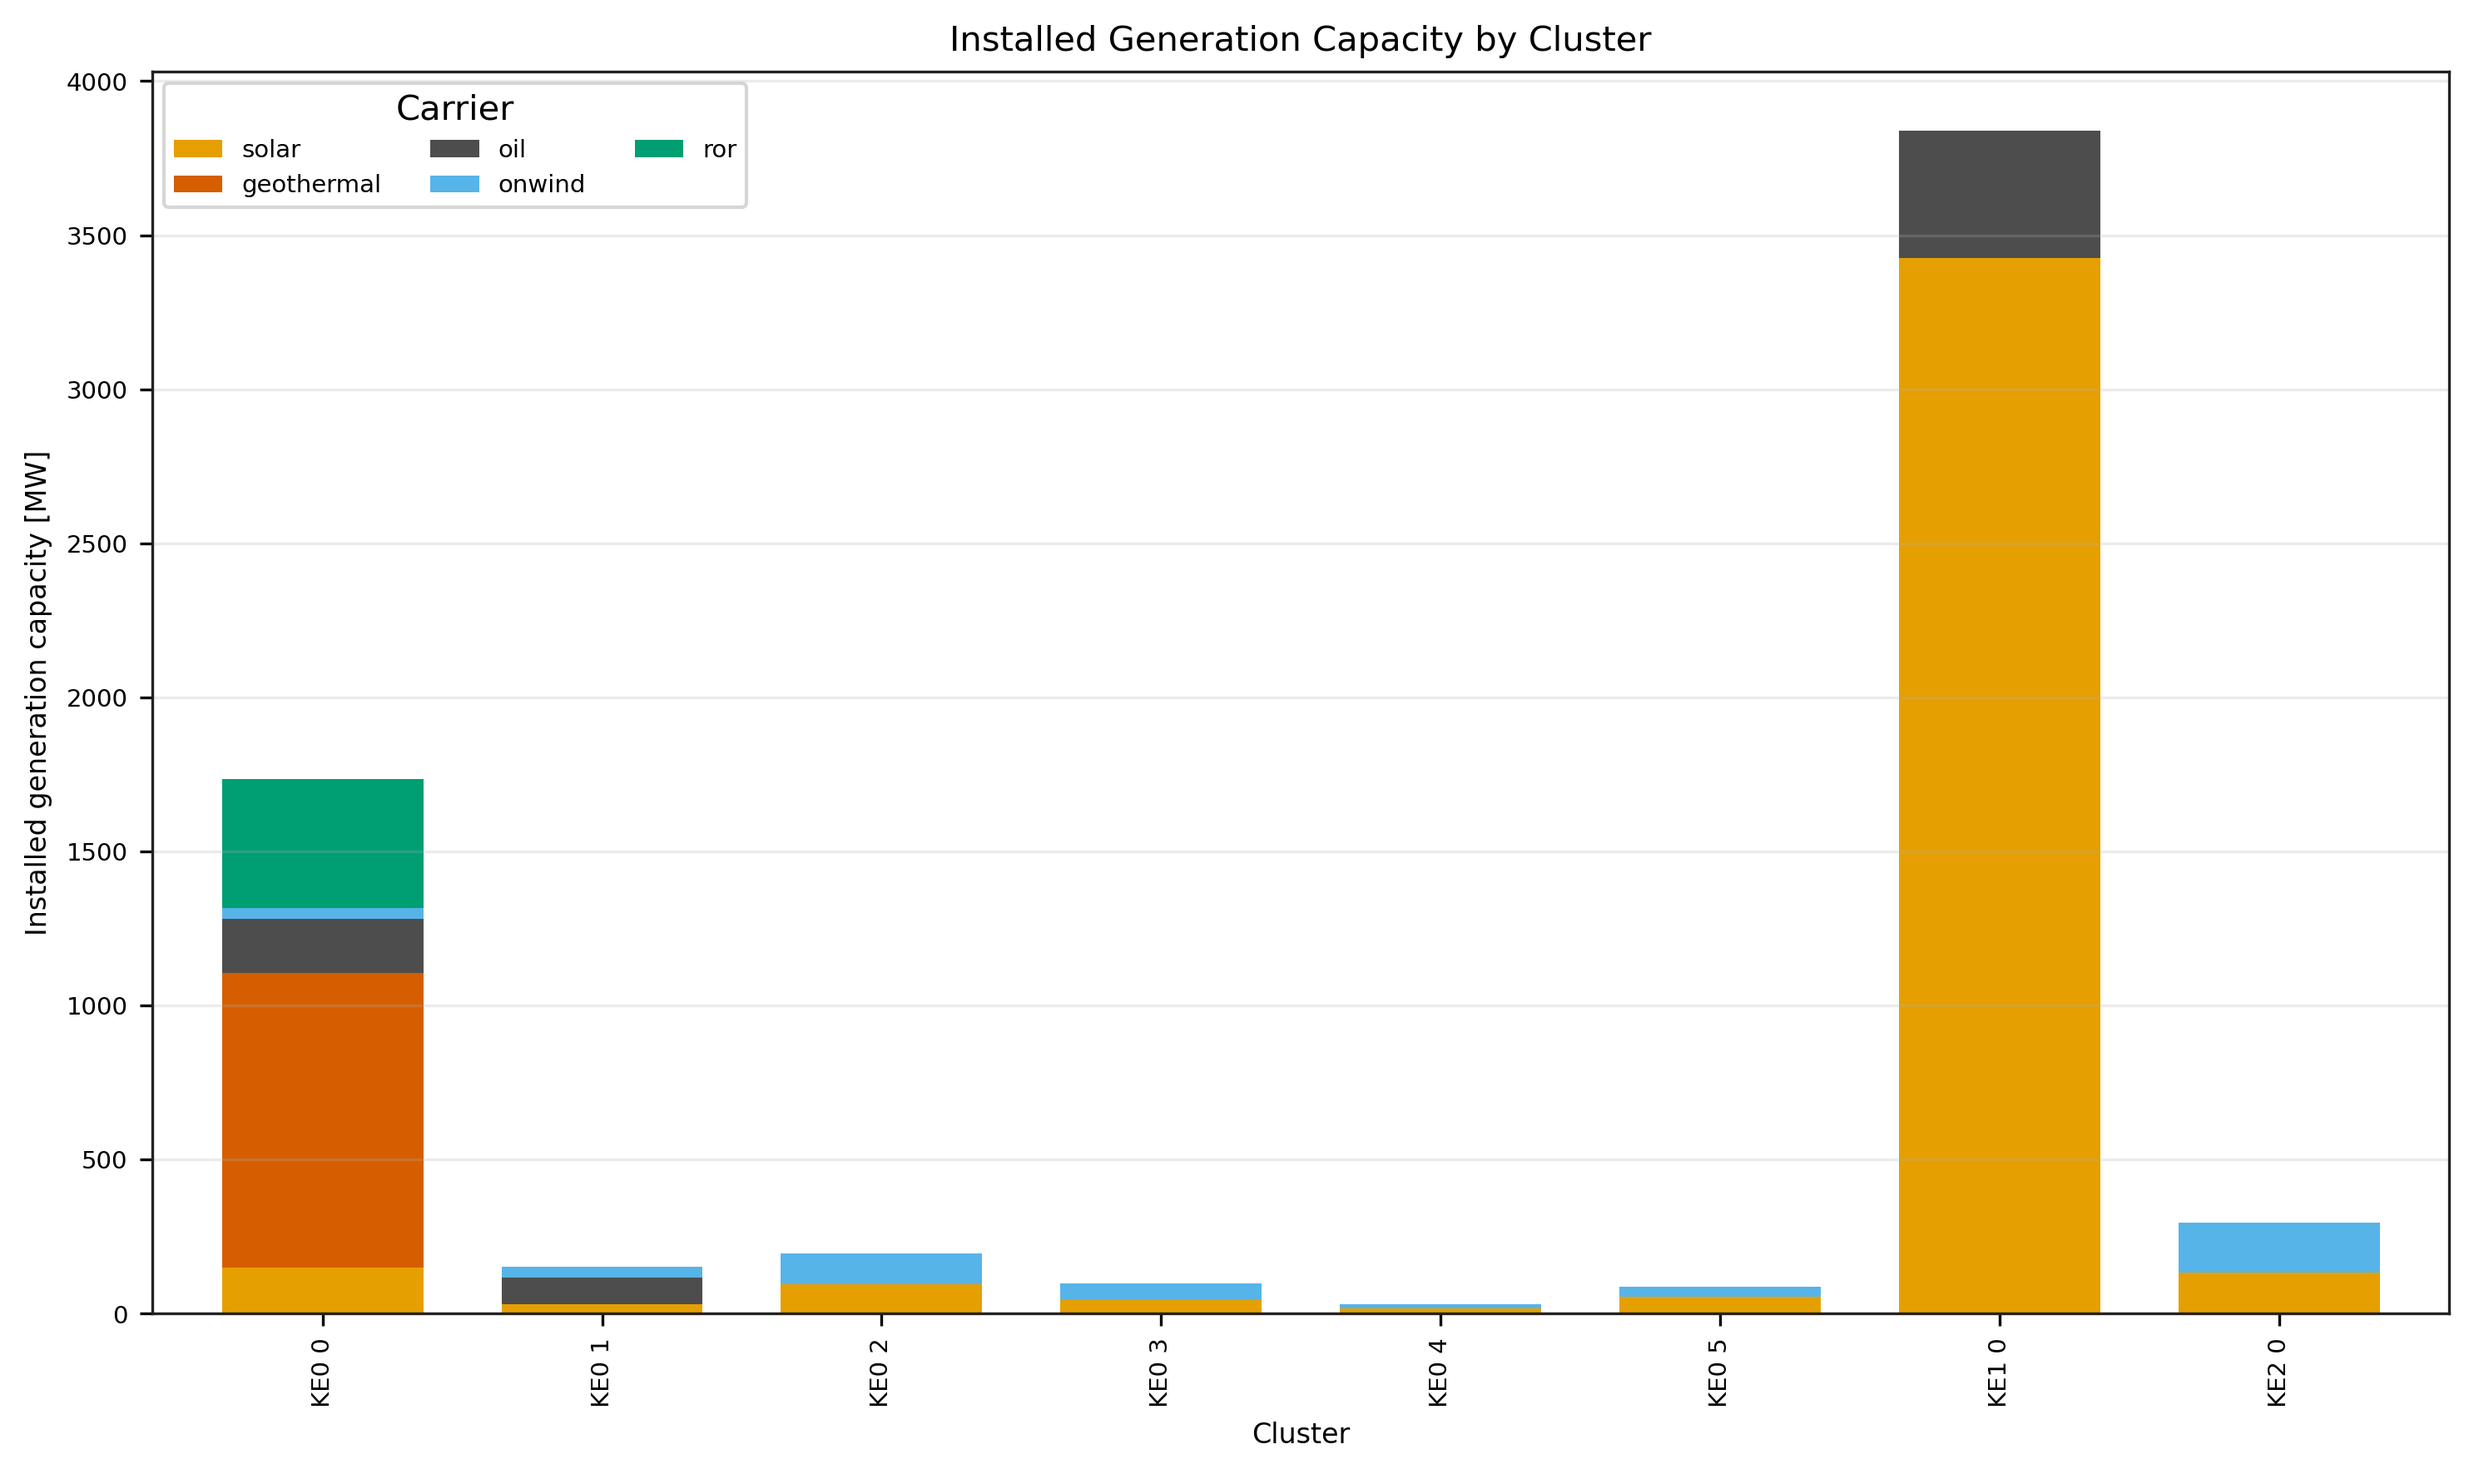
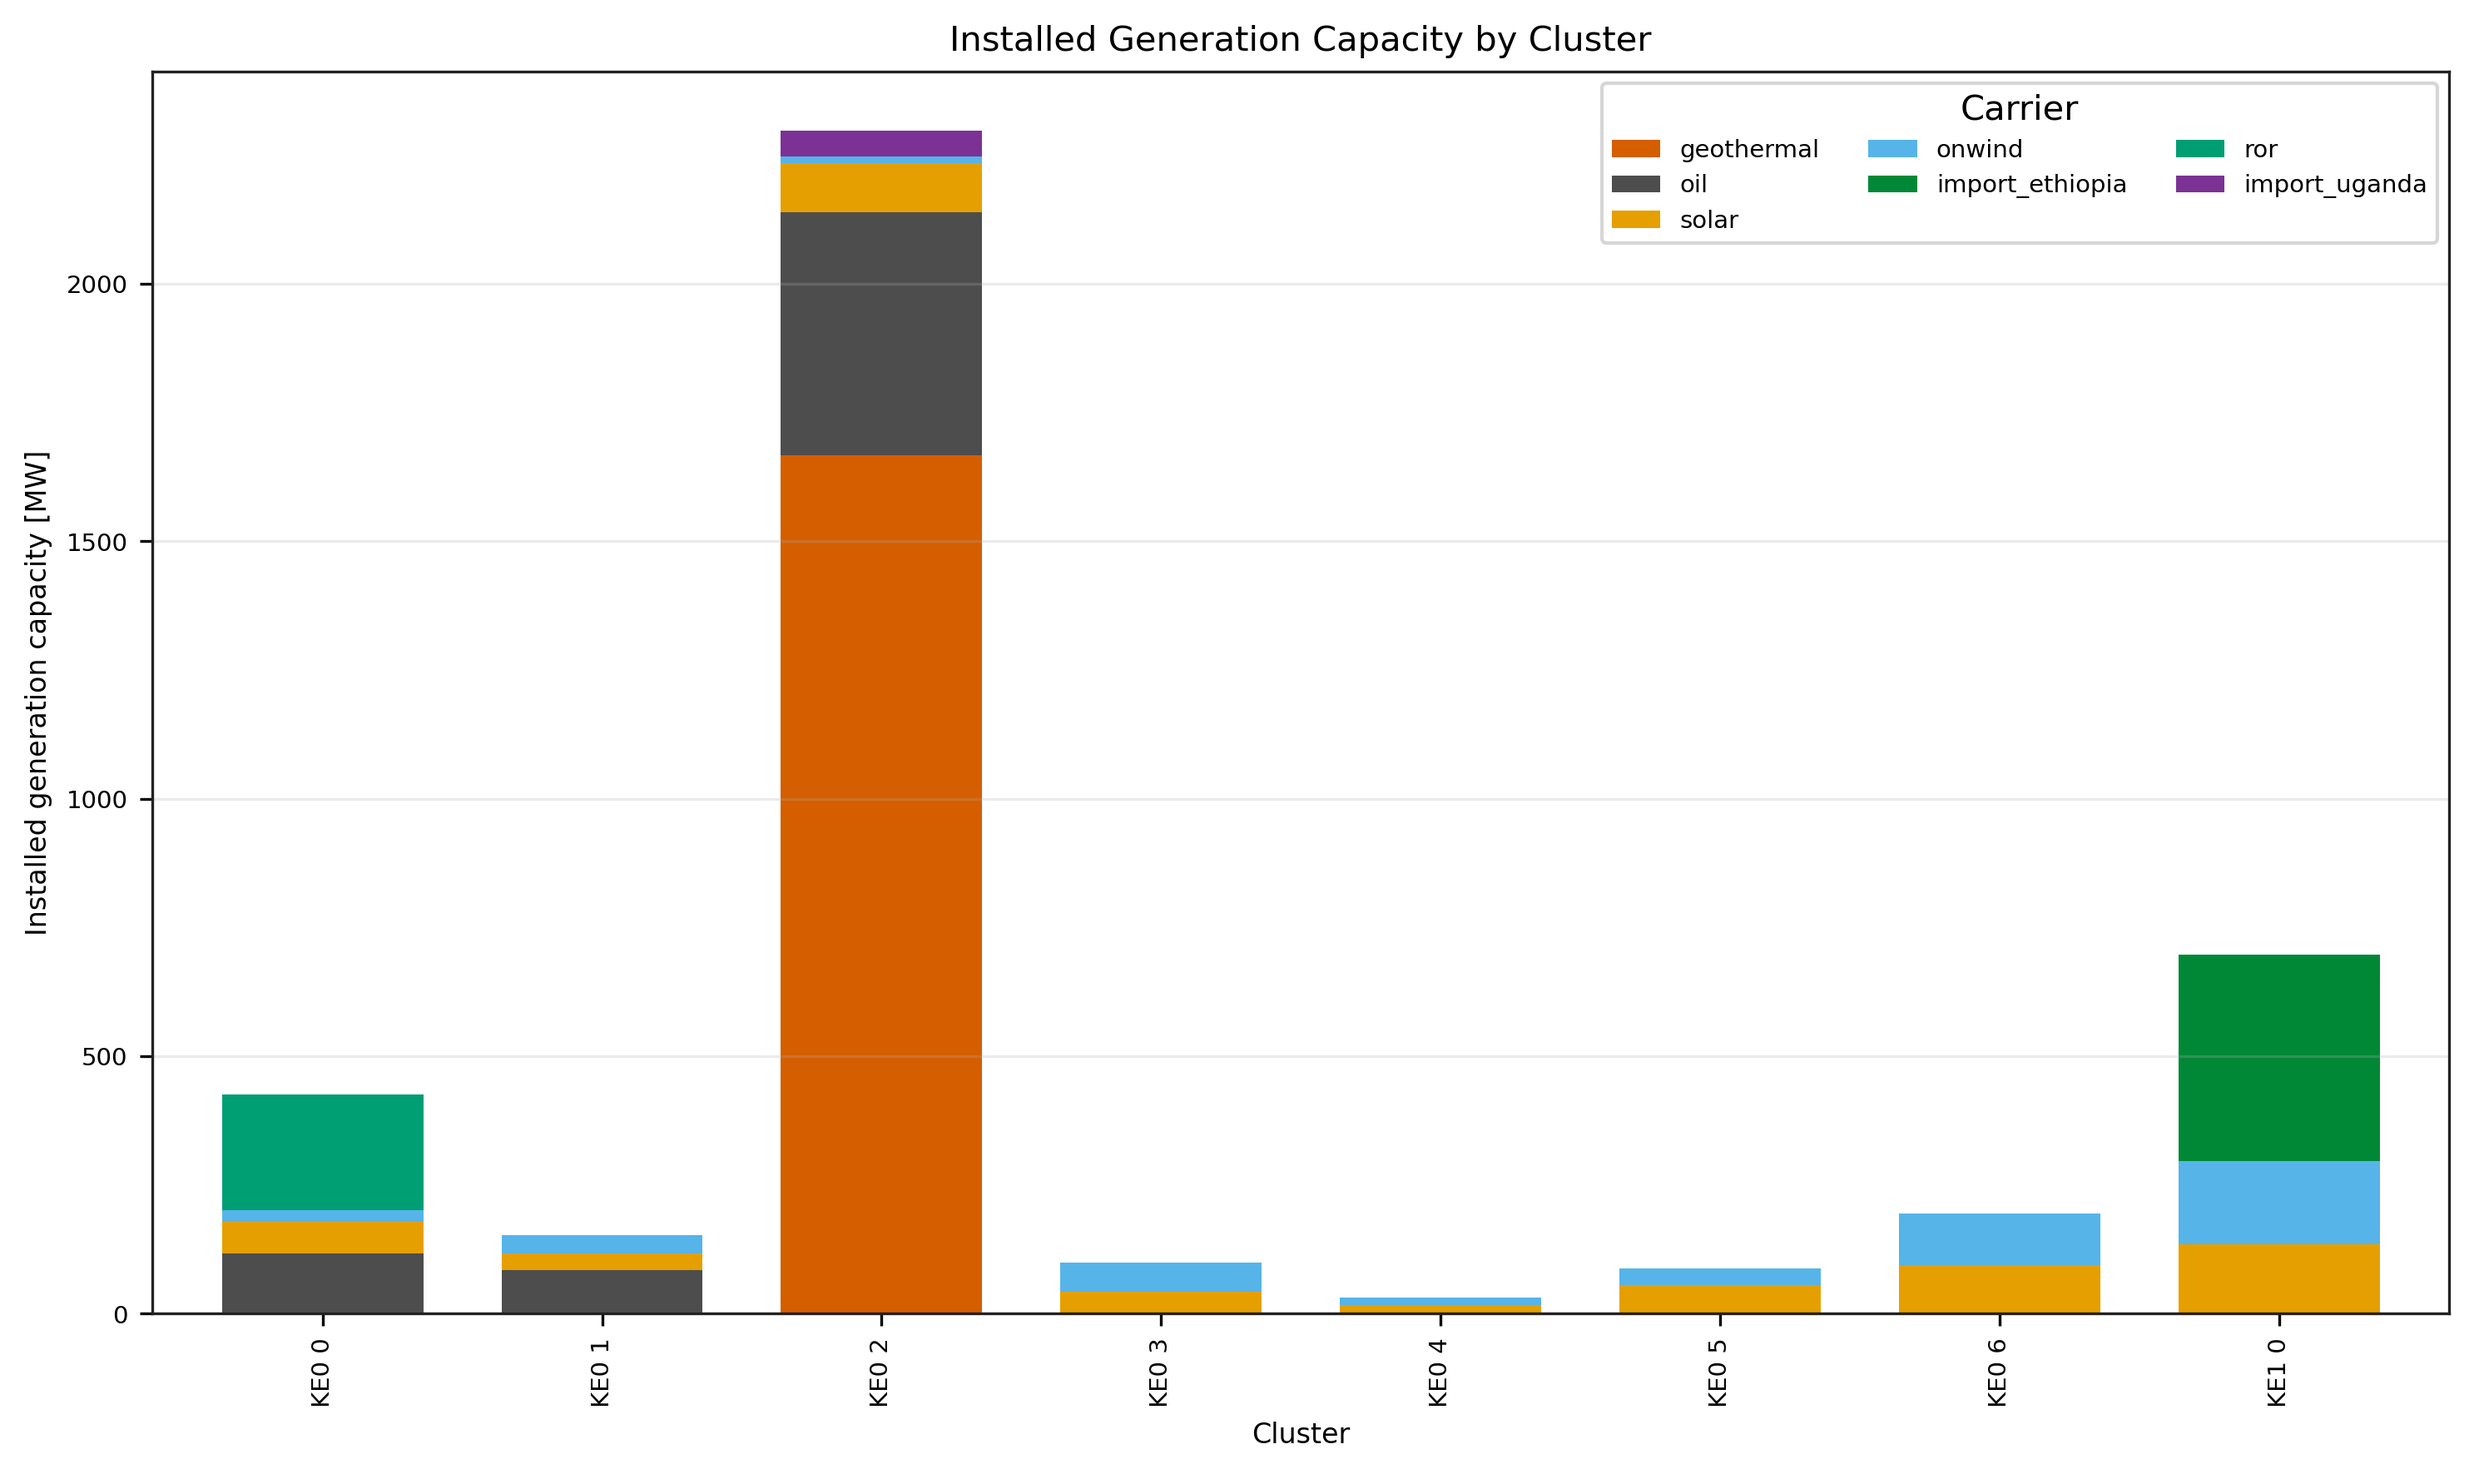
rerun 8 clusters with imports ethiopia and uganda

diff --git a/scripts/add_electricity.py b/scripts/add_electricity.py
@@ -189,10 +189,20 @@ def load_costs(tech_costs, config, elec_config, Nyears=1):
 
     costs = costs.value.unstack().fillna(config["fill_values"])
 
+    def add_missing_overwrite_rows(overwrites):
+        nonlocal costs
+        missing = pd.Index(overwrites).difference(costs.index)
+        if missing.empty:
+            return
+        fill_values = pd.Series(config["fill_values"]).reindex(costs.columns)
+        costs = costs.reindex(costs.index.union(missing))
+        costs.loc[missing, :] = fill_values.values
+
     for attr in ("investment", "lifetime", "FOM", "VOM", "efficiency", "fuel"):
         overwrites = config.get(attr)
         if overwrites is not None:
             overwrites = pd.Series(overwrites)
+            add_missing_overwrite_rows(overwrites.index)
             costs.loc[overwrites.index, attr] = overwrites
             logger.info(
                 f"Overwriting {attr} of {overwrites.index} to {overwrites.values}"
@@ -258,6 +268,7 @@ def load_costs(tech_costs, config, elec_config, Nyears=1):
         overwrites = config.get(attr)
         if overwrites is not None:
             overwrites = pd.Series(overwrites)
+            add_missing_overwrite_rows(overwrites.index)
             costs.loc[overwrites.index, attr] = overwrites
             logger.info(
                 f"Overwriting {attr} of {overwrites.index} to {overwrites.values}"

diff --git a/scripts/plot_kenya_run_results.py b/scripts/plot_kenya_run_results.py
@@ -44,6 +44,8 @@ TECH_COLORS = {
     "hydro": "#0072B2",
     "geothermal": "#D55E00",
     "oil": "#4D4D4D",
+    "import_uganda": "#7B3294",
+    "import_ethiopia": "#008837",
     "battery": "#CC79A7",
     "battery discharge": "#CC79A7",
     "hydro discharge": "#0072B2",

diff --git a/analysis/outputs/test_run_8clusters/summary.md b/analysis/outputs/test_run_8clusters/summary.md
@@ -3,22 +3,26 @@
 Network: unnamed
 Snapshots: 2920
 Buses: 8
-Lines: 5
-Generators: 21
-Storage units: 13
+Lines: 6
+Generators: 23
+Storage units: 12
 
 ## Installed generation capacity [MW]
 carrier
-solar         3955.115
-geothermal     954.253
-oil            674.100
-onwind         436.029
-ror            418.445
+geothermal         1667.210
+oil                 674.100
+solar               534.260
+onwind              436.029
+import_ethiopia     400.000
+ror                 225.000
+import_uganda        50.000
 
 ## Annual generation [GWh]
 carrier
-geothermal    1630.759
-solar         1283.903
-ror           1221.859
-oil             85.156
-onwind           0.034
+geothermal         3442.393
+ror                 657.000
+solar                62.305
+import_ethiopia       0.000
+import_uganda         0.000
+oil                   0.000
+onwind                0.000
